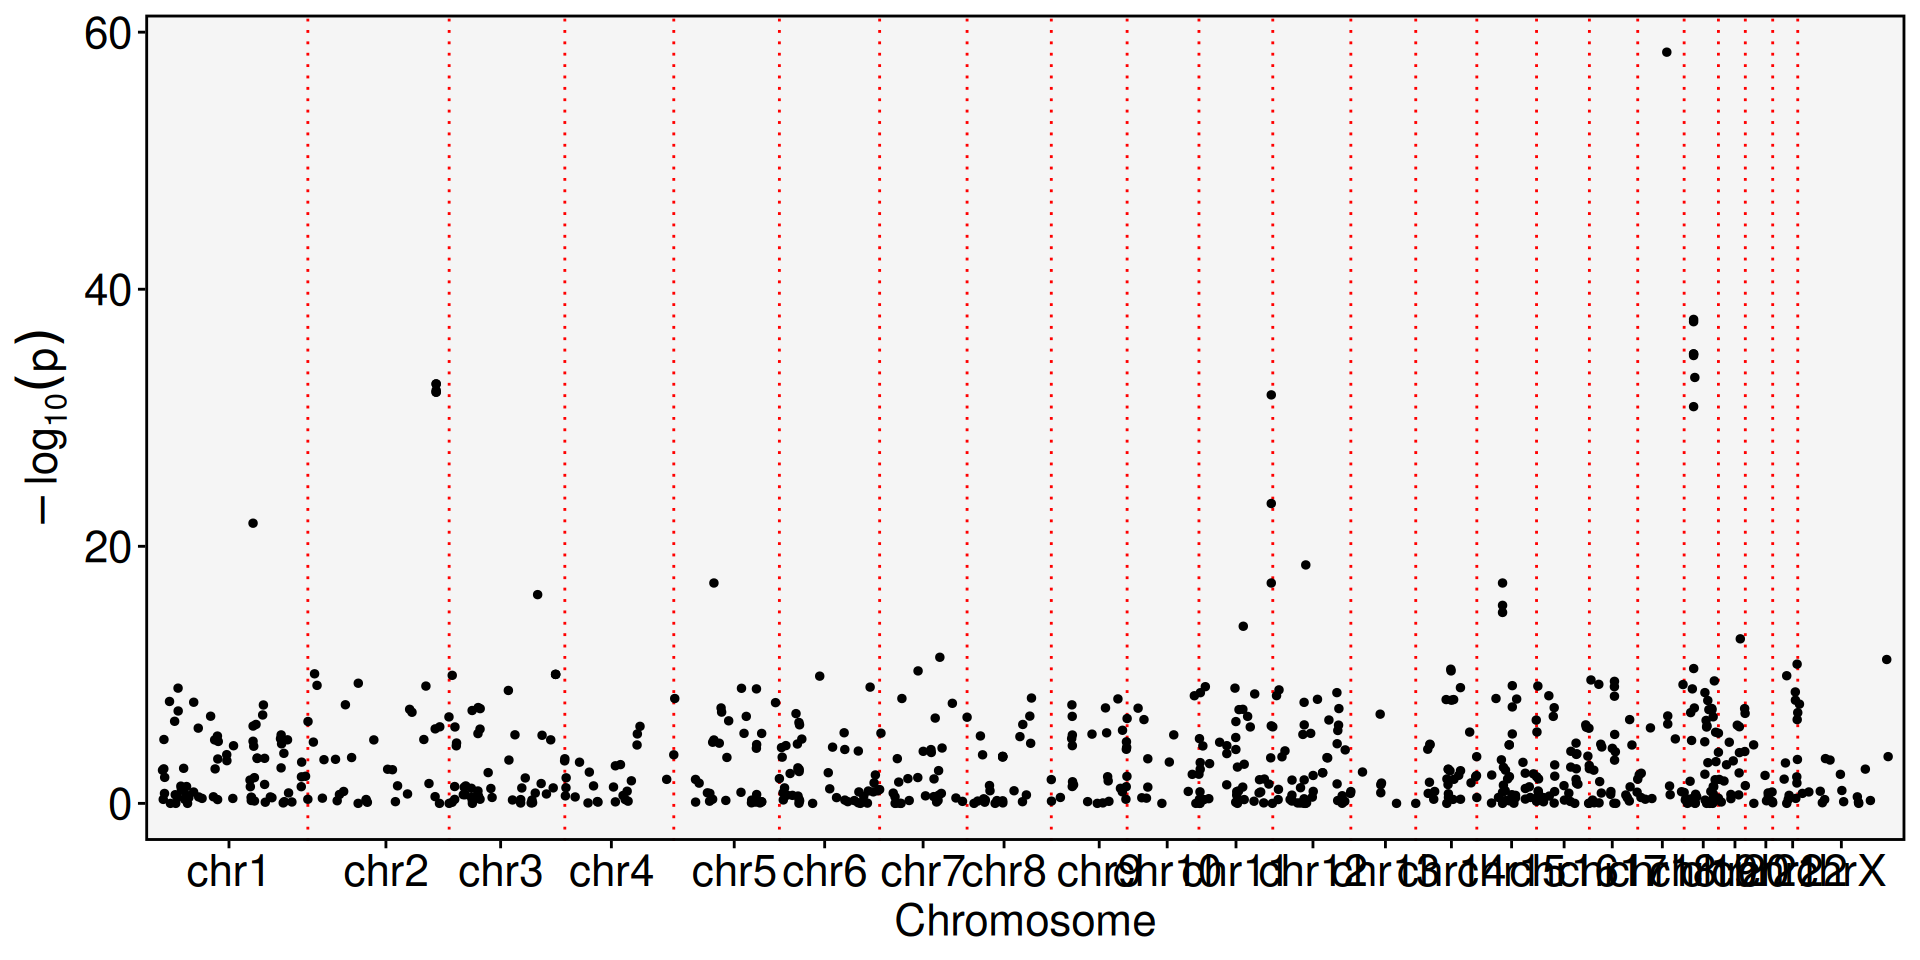
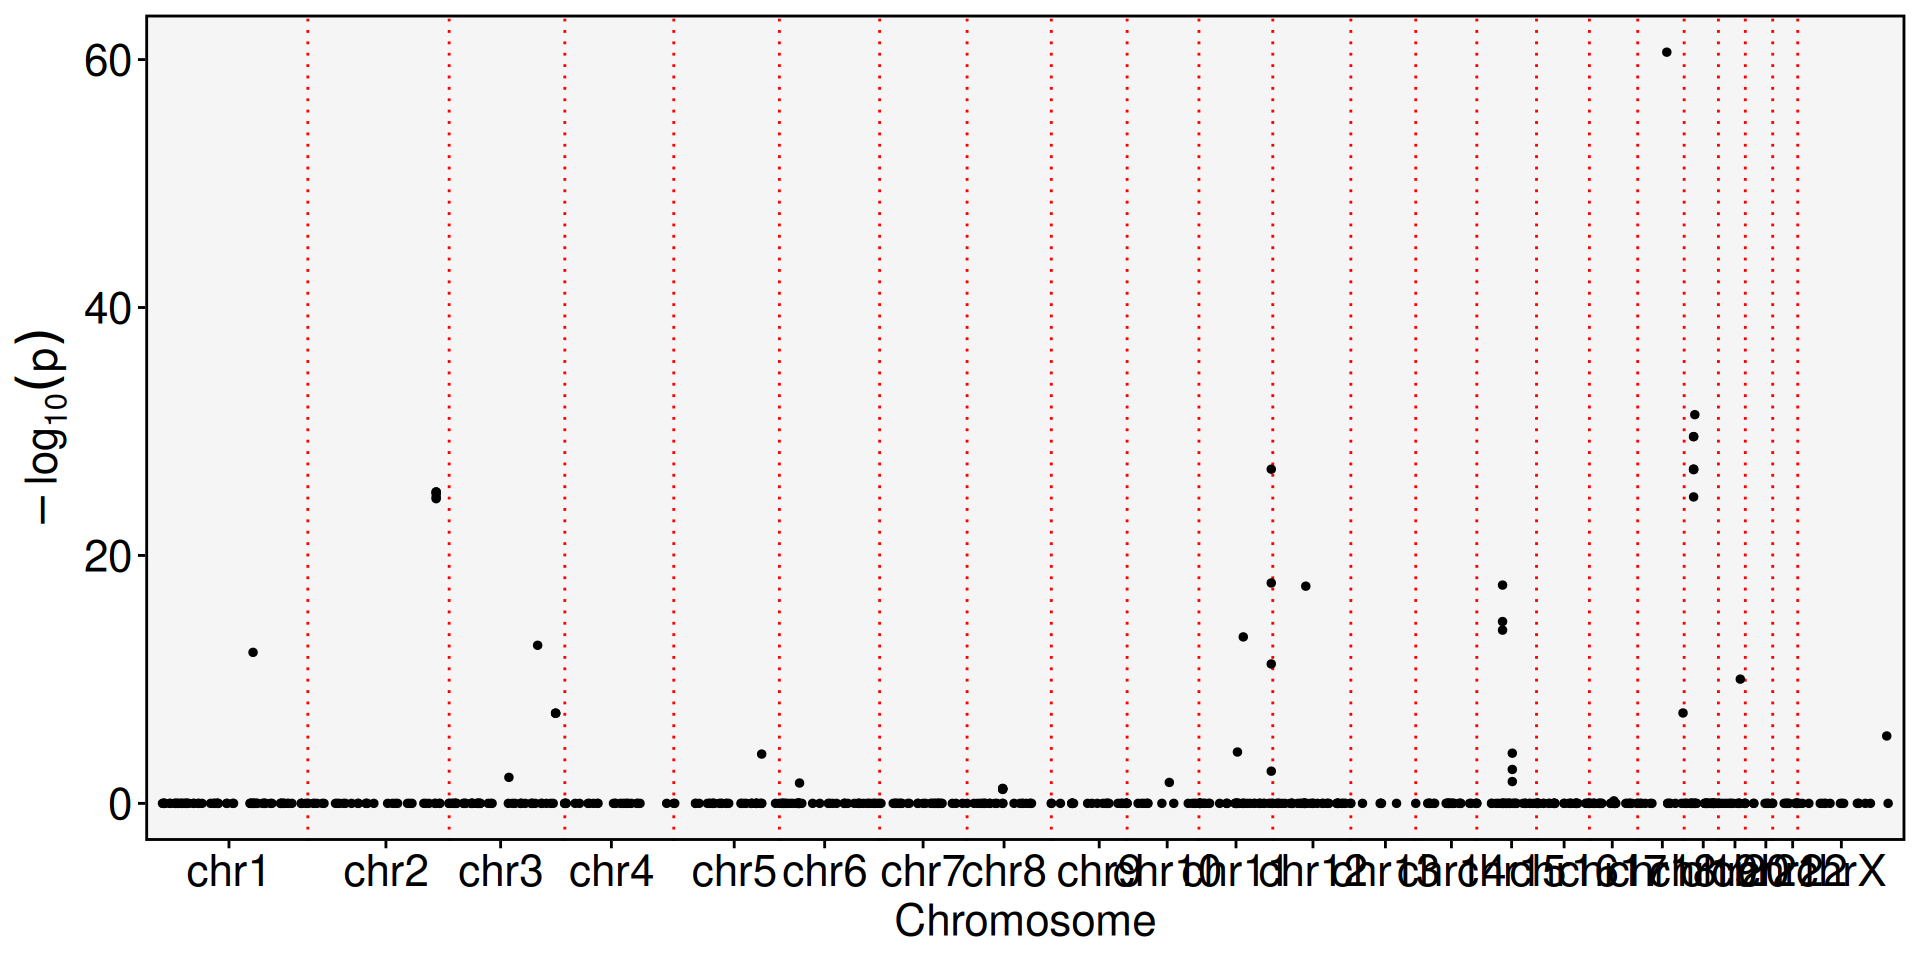
modified:   Yano_ASE.Rmd 	modified:   docs/Yano.html 	modified:   docs/Yano_files/figure-html/unnamed-chunk-1-2.png 	modified:   docs/search.json

diff --git a/docs/Yano.html b/docs/Yano.html
@@ -440,19 +440,19 @@ chr11:123060825-123061329/-/HSPA8  1.099318e-63 0.07462142              TRUE
 chr11:123061588-123061833/-/HSPA8 7.646557e-158 0.11891354              TRUE
 chr11:123061869-123062022/-/HSPA8 1.467547e-150 0.11541279              TRUE
                                   gene_name.D gene_name.t gene_name.pval
-chr1:154169305-154169383/-/TPM3     0.3410795  -13.362721   3.412136e-24
-chr11:35197162-35197793/+/CD44      0.2529072   -4.658903   4.957250e-06
-chr11:75421727-75422280/+/RPS3      0.3043498   -9.546643   5.334719e-16
-chr11:123060825-123061329/-/HSPA8   0.2790286  -11.129009   1.918785e-19
-chr11:123061588-123061833/-/HSPA8   0.3523409  -18.537513   2.885384e-34
-chr11:123061869-123062022/-/HSPA8   0.3431089  -14.119163   9.383985e-26
+chr1:154169305-154169383/-/TPM3     0.3298889  -8.8300031   1.939628e-14
+chr11:35197162-35197793/+/CD44      0.1582675  -0.8945946   1.865868e-01
+chr11:75421727-75422280/+/RPS3      0.2748901  -9.4219413   9.979379e-16
+chr11:123060825-123061329/-/HSPA8   0.2343256  -8.3896002   1.743493e-13
+chr11:123061588-123061833/-/HSPA8   0.3323525 -16.1348177   9.062215e-30
+chr11:123061869-123062022/-/HSPA8   0.3224089 -11.4810464   3.333490e-20
                                   gene_name.padj
-chr1:154169305-154169383/-/TPM3     1.593041e-22
-chr11:35197162-35197793/+/CD44      1.757099e-05
-chr11:75421727-75422280/+/RPS3      1.660431e-14
-chr11:123060825-123061329/-/HSPA8   7.166663e-18
-chr11:123061588-123061833/-/HSPA8   1.657986e-32
-chr11:123061869-123062022/-/HSPA8   4.673225e-24</code></pre>
+chr1:154169305-154169383/-/TPM3     6.585918e-13
+chr11:35197162-35197793/+/CD44      1.000000e+00
+chr11:75421727-75422280/+/RPS3      3.727298e-14
+chr11:123060825-123061329/-/HSPA8   5.662563e-12
+chr11:123061588-123061833/-/HSPA8   1.105028e-27
+chr11:123061869-123062022/-/HSPA8   1.660078e-18</code></pre>
 </div>
 <div class="code-copy-outer-scaffold"><div class="sourceCode cell-code" id="cb13"><pre class="sourceCode r code-with-copy"><code class="sourceCode r"><span id="cb13-1"><a href="#cb13-1" aria-hidden="true" tabindex="-1"></a><span class="co"># Manhattan plot for spatial dissimilarity test result</span></span>
 <span id="cb13-2"><a href="#cb13-2" aria-hidden="true" tabindex="-1"></a><span class="fu">FbtPlot</span>(glbt_small, <span class="at">val =</span> <span class="st">"gene_name.padj"</span>)</span></code></pre></div><button title="Copy to Clipboard" class="code-copy-button"><i class="bi"></i></button></div>
@@ -474,9 +474,9 @@ chr11:123061869-123062022/-/HSPA8   4.673225e-24</code></pre>
 <div class="code-copy-outer-scaffold"><div class="sourceCode cell-code" id="cb15"><pre class="sourceCode r code-with-copy"><code class="sourceCode r"><span id="cb15-1"><a href="#cb15-1" aria-hidden="true" tabindex="-1"></a><span class="co"># Track plot for gene coverage at different cell types</span></span>
 <span id="cb15-2"><a href="#cb15-2" aria-hidden="true" tabindex="-1"></a>db <span class="ot">&lt;-</span> <span class="fu">gtf2db</span>(<span class="st">"./gencode.v44.annotation.gtf.gz"</span>)</span></code></pre></div><button title="Copy to Clipboard" class="code-copy-button"><i class="bi"></i></button></div>
 <div class="cell-output cell-output-stdout">
-<pre><code>[2026-06-04 12:36:45] GTF loading..
-[2026-06-04 12:37:15] Load 62700 genes.
-[2026-06-04 12:37:15] Load time : 30.085 sec</code></pre>
+<pre><code>[2026-06-04 16:08:45] GTF loading..
+[2026-06-04 16:09:15] Load 62700 genes.
+[2026-06-04 16:09:15] Load time : 29.450 sec</code></pre>
 </div>
 <div class="code-copy-outer-scaffold"><div class="sourceCode cell-code" id="cb17"><pre class="sourceCode r code-with-copy"><code class="sourceCode r"><span id="cb17-1"><a href="#cb17-1" aria-hidden="true" tabindex="-1"></a><span class="fu">TrackPlot</span>(<span class="at">bamfile=</span><span class="st">"./Parent_SC3v3_Human_Glioblastoma_possorted_genome_bam.bam"</span>, <span class="at">gtf =</span>db, <span class="at">gene =</span> <span class="st">"TPM4"</span>, <span class="at">junc =</span> <span class="cn">TRUE</span>, <span class="at">cell.group =</span> <span class="fu">Idents</span>(glbt_small), <span class="at">highlights =</span> <span class="fu">c</span>(<span class="dv">[phone redacted]</span>,<span class="dv">[phone redacted]</span>))</span></code></pre></div><button title="Copy to Clipboard" class="code-copy-button"><i class="bi"></i></button></div>
 <div class="cell-output-display">